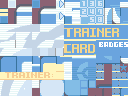
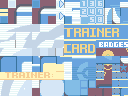
Add  Poké Coupon stat and Mt. Battle stamp to Trainer Card Will probably add additional palettes for different rank stamps too.

Changed region(s): [[0.75, 0.5, 1.0, 0.5938], [0.8125, 0.6562, 0.875, 0.7812], [0.375, 0.1562, 0.4375, 0.25]]

diff --git a/src/trainer_card.c b/src/trainer_card.c
@@ -68,6 +68,7 @@ struct TrainerCardData
     u8 textBattlePoints[70];
     u8 textShinyCount[70];
     u8 textPowerPoints[70];
+    u8 textPokeCoupons[70];
     u16 monIconPal[16 * PARTY_SIZE];
     s8 flipBlendY;
     bool8 timeColonNeedDraw;
@@ -162,6 +163,8 @@ static void BufferShinyCount(void);
 static void PrintShinyCountStringOnCard(u8 slot);
 static void BufferPowerPoints(void);
 static void PrintPowerPointsStringOnCard(u8 slot);
+static void BufferPokeCoupons(void);
+static void PrintPokeCouponsStringOnCard(u8 slot);
 static void PrintStatOnBackOfCard(u8 top, const u8* str1, u8* str2, const u8* color);
 static void LoadStickerGfx(void);
 static u8 SetCardBgsAndPals(void);
@@ -872,11 +875,13 @@ static void SetPlayerCardData(struct TrainerCard *trainerCard)
 	StringCopy(trainerCard->playerName, gSaveBlock2Ptr->playerName);
 
 	trainerCard->version = GAME_VERSION;
-	trainerCard->secretId = (gSaveBlock2Ptr->playerTrainerId[3] << 8) | gSaveBlock2Ptr->playerTrainerId[2];
 	//trainerCard->hasAllFrontierSymbols = HasAllFrontierSymbols();
+    trainerCard->crystalDustVersion = 0;
+	trainerCard->secretId = (gSaveBlock2Ptr->playerTrainerId[3] << 8) | gSaveBlock2Ptr->playerTrainerId[2];
 	trainerCard->berryCrushPoints = GetCappedGameStat(GAME_STAT_PLAYED_BERRY_CRUSH, 0xFFFF);
 	trainerCard->unionRoomNum = GetCappedGameStat(GAME_STAT_NUM_UNION_ROOM_BATTLES, 0xFFFF);
-	trainerCard->berriesPicked = gSaveBlock2Ptr->berryPick.berriesPicked;
+	//trainerCard->berriesPicked = gSaveBlock2Ptr->berryPick.berriesPicked;
+    trainerCard->pokeCoupons = gSaveBlock1Ptr->externalEventData.totalEarnedPokeCoupons;
 	trainerCard->jumpsInRow = gSaveBlock2Ptr->pokeJump.jumpsInRow;
 	trainerCard->shouldDrawStickers = FALSE;
 	trainerCard->hasAllMons = (trainerCard->caughtMonsCount == 386);
@@ -1152,6 +1157,7 @@ static void BufferTextsVarsForCardPage2(void)
     BufferBattlePoints();
     BufferShinyCount();
     BufferPowerPoints();
+    BufferPokeCoupons();
 }
 
 static void PrintNameOnCardFront(void)
@@ -1863,6 +1869,9 @@ static void PrintStatBySlot(u8 slot)
 		case CARD_STAT_POWER_POINTS:
 			PrintPowerPointsStringOnCard(slot);
 			break;
+		case CARD_STAT_POKE_COUPONS:
+			PrintPokeCouponsStringOnCard(slot);
+			break;
 	}
 }
 
@@ -2130,6 +2139,18 @@ static void PrintPowerPointsStringOnCard(u8 slot)
 		PrintStatOnBackOfCard(slot, gText_HCardPowerPoints, sData->textPowerPoints, sTrainerCardStatColors);
 }
 
+static void BufferPokeCoupons(void)
+{
+	ConvertUIntToDecimalStringN(gStringVar1, sData->trainerCard.pokeCoupons, STR_CONV_MODE_RIGHT_ALIGN, 5);
+	StringExpandPlaceholders(sData->textPokeCoupons, gText_HCardNumPokeCoupons);
+}
+
+static void PrintPokeCouponsStringOnCard(u8 slot)
+{
+	if (sData->cardLayout == CARD_LAYOUT_HELIODOR || sData->trainerCard.pokeCoupons)
+		PrintStatOnBackOfCard(slot, gText_HCardPokeCoupons, sData->textPokeCoupons, sTrainerCardStatColors);
+}
+
 static void PrintPokemonIconsOnCard(void)
 {
     u8 i;
@@ -2373,6 +2394,15 @@ static void DrawStarsAndBadgesOnCard(void)
             }
         }
     }
+	if (sData->cardLayout == CARD_LAYOUT_HELIODOR && sData->trainerCard.pokeCoupons >= 1)
+	{
+		FillBgTilemapBufferRect(3, 108, 14, 2, 1, 1, 0);
+		FillBgTilemapBufferRect(3, 109, 15, 2, 1, 1, 0);
+		FillBgTilemapBufferRect(3, 110, 16, 2, 1, 1, 0);
+		FillBgTilemapBufferRect(3, 111, 14, 3, 1, 1, 0);
+		FillBgTilemapBufferRect(3, 141, 15, 3, 1, 1, 0);
+		FillBgTilemapBufferRect(3, 157, 16, 3, 1, 1, 0);
+	}
     CopyBgTilemapBufferToVram(3);
 }
 

diff --git a/include/trainer_card.h b/include/trainer_card.h
@@ -35,7 +35,8 @@ enum
 	CARD_STAT_BERRY_CRUSH,
 	CARD_STAT_BATTLE_POINTS,
 	CARD_STAT_SHINIES,
-	CARD_STAT_POWER_POINTS
+	CARD_STAT_POWER_POINTS,
+    CARD_STAT_POKE_COUPONS
 };
 
 enum
@@ -51,13 +52,13 @@ struct TrainerCard
     /*0x00*/ u8 gender;
     /*0x01*/ u8 stars;
     /*0x02*/ bool8 hasPokedex;
-    /*0x03*/ u8 cardLayout; // Officially caughtAllHoenn
-    /*0x04*/ u8 outfit; // Officially hasAllPaintings
+    /*0x03*/ u8 cardLayout; // caughtAllHoenn in FRLGE
+    /*0x04*/ u8 outfit; // hasAllPaintings in FRLGE
 	/*0x05*/ u8 extraStars;
     /*0x06*/ u16 hofDebutHours;
     /*0x08*/ u16 hofDebutMinutes;
     /*0x0A*/ u16 hofDebutSeconds;
-    /*0x0C*/ u16 caughtMonsCount;
+    /*0x0C*/ u16 caughtMonsCount; // pokedexSeen in RS
     /*0x0E*/ u16 trainerId;
     /*0x10*/ u16 playTimeHours;
     /*0x12*/ u16 playTimeMinutes;
@@ -71,13 +72,14 @@ struct TrainerCard
 	/*0x22*/ u16 shinies;
     /*0x24*/ u32 money;
     /*0x28*/ u16 easyChatProfile[TRAINER_CARD_PROFILE_LENGTH];
-    /*0x30*/ u8 playerName[PLAYER_NAME_LENGTH + 1];
+    /*0x30*/ u8 playerName[PLAYER_NAME_LENGTH + 1]; // RS ends here
     /*0x38*/ u8 version;
 	/*0x39*/ u8 crystalDustVersion;
-    /*0x3A*/ u16 secretId; // Officially hasAllFrontierSymbols
+    /*0x3A*/ u16 secretId; // hasAllFrontierSymbols in FRLG, linkHasAllFrontierSymbols in E
     /*0x3C*/ u32 berryCrushPoints;
     /*0x40*/ u32 unionRoomNum;
-    /*0x44*/ u32 berriesPicked; // Free for use
+    /*0x44*/ u32 pokeCoupons:24; // berriesPicked in FRLG
+             u32 filler:8;
     /*0x48*/ u32 jumpsInRow; // Free for use
     /*0x4C*/ bool8 shouldDrawStickers;
     /*0x4D*/ bool8 hasAllMons; // Free for use
@@ -85,11 +87,11 @@ struct TrainerCard
     /*0x4F*/ u8 facilityClass;
     /*0x50*/ u8 stickers[TRAINER_CARD_STICKER_TYPES];
 	/*0x53*/ u8 versionModifier;
-    /*0x54*/ u16 monSpecies[PARTY_SIZE];
+    /*0x54*/ u16 monSpecies[PARTY_SIZE]; // FRLG ends here
              // Note: Link players use hasAllFrontierSymbols, not the field below,
              // which they use for a Wonder Card flag id instead (see CreateTrainerCardInBuffer)
-    /*0x60*/ bool16 hasAllSymbols; // Free for use
-    /*0x62*/ u16 frontierBP;
+    /*0x60*/ bool16 hasAllSymbols; // Gets overwritten with Wonder Card ID, E then overwrites again with secretId after receiving; in short, we can't really use this for anything
+    /*0x62*/ u16 frontierBP; // E ends here
 	/*0x64*/ u32 monForm0:2;
 	         u32 monForm1:2;
 	         u32 monForm2:2;
@@ -106,7 +108,7 @@ struct TrainerCard
 	         u16 hSticker1:3;
 	         u16 hSticker2:3;
 			 u16 displayDotCode:1;
-             u16 filler:6;
+             u16 filler2:6;
 };
 
 extern struct TrainerCard gTrainerCards[4];

diff --git a/src/strings.c b/src/strings.c
@@ -1987,6 +1987,8 @@ const u8 gText_HCard5StarTowerStats[] = _("{COLOR DARK_GRAY}{SHADOW LIGHT_GRAY}W
 const u8 gText_HCardShinyCount[] = _("ALT. COLOR POKéMON FOUND");
 const u8 gText_HCardPowerPoints[] = _("POWER POINTS EARNED");
 const u8 gText_HCardNumPowerPoints[] = _("{STR_VAR_1}{COLOR DARK_GRAY}{SHADOW LIGHT_GRAY}pt");
+const u8 gText_HCardPokeCoupons[] = _("POKé COUPONS EARNED");
+const u8 gText_HCardNumPokeCoupons[] = _("{STR_VAR_1}{COLOR DARK_GRAY}{SHADOW LIGHT_GRAY}pt");
 const u8 gText_HCardWinsLosses[] = _("W:{CLEAR_TO 0x30}L:");
 const u8 gText_HCardTrainerName[] = _("TRAINER:{CLEAR_TO 3}{STR_VAR_1}");
 const u8 gText_BlackCard[] = _("BLACK");
@@ -2021,6 +2023,7 @@ const u8 gText_CardTerminal_StatBerryCrush[] = _("BERRY CRUSH");
 const u8 gText_CardTerminal_StatBattlePoints[] = _("BATTLE POINTS WON");
 const u8 gText_CardTerminal_StatShiny[] = _("ALT. COLOR POKéMON FOUND");
 const u8 gText_CardTerminal_StatPowerPoints[] = _("POWER POINTS EARNED");
+const u8 gText_CardTerminal_StatPokeCoupons[] = _("POKé COUPONS EARNED");
 const u8 gText_CardTerminal_StickerHOFName[] = _("HALL OF FAME");
 const u8 gText_CardTerminal_StickerEggName[] = _("EGG");
 const u8 gText_CardTerminal_StickerBattleName[] = _("LINK BATTLE");

diff --git a/include/strings.h b/include/strings.h
@@ -3279,6 +3279,8 @@ extern const u8 gText_HCard5StarTowerStats[];
 extern const u8 gText_HCardShinyCount[];
 extern const u8 gText_HCardPowerPoints[];
 extern const u8 gText_HCardNumPowerPoints[];
+extern const u8 gText_HCardPokeCoupons[];
+extern const u8 gText_HCardNumPokeCoupons[];
 extern const u8 gText_HCardWinsLosses[];
 extern const u8 gText_HCardTrainerName[];
 extern const u8 gText_BlackCard[];
@@ -3313,6 +3315,7 @@ extern const u8 gText_CardTerminal_StatBerryCrush[];
 extern const u8 gText_CardTerminal_StatBattlePoints[];
 extern const u8 gText_CardTerminal_StatShiny[];
 extern const u8 gText_CardTerminal_StatPowerPoints[];
+extern const u8 gText_CardTerminal_StatPokeCoupons[];
 extern const u8 gText_CardTerminal_StickerHOFName[];
 extern const u8 gText_CardTerminal_StickerEggName[];
 extern const u8 gText_CardTerminal_StickerBattleName[];

diff --git a/src/field_specials.c b/src/field_specials.c
@@ -2407,7 +2407,7 @@ void ShowScrollableMultichoice(void)
             break;
         case SCROLL_MULTI_CARD_TERMINAL_STATS:
             task->tMaxItemsOnScreen = MAX_SCROLL_MULTI_ON_SCREEN;
-            task->tNumItems = 13;
+            task->tNumItems = 14;
             task->tLeft = 14;
             task->tTop = 1;
             task->tWidth = 15;
@@ -2698,6 +2698,7 @@ static const u8 *const sScrollableMultichoiceOptions[][MAX_SCROLL_MULTI_LENGTH] 
 		gText_CardTerminal_StatBattlePoints,
 		gText_CardTerminal_StatShiny,
 		gText_CardTerminal_StatPowerPoints,
+		gText_CardTerminal_StatPokeCoupons,
         gText_Back
     }
 };
